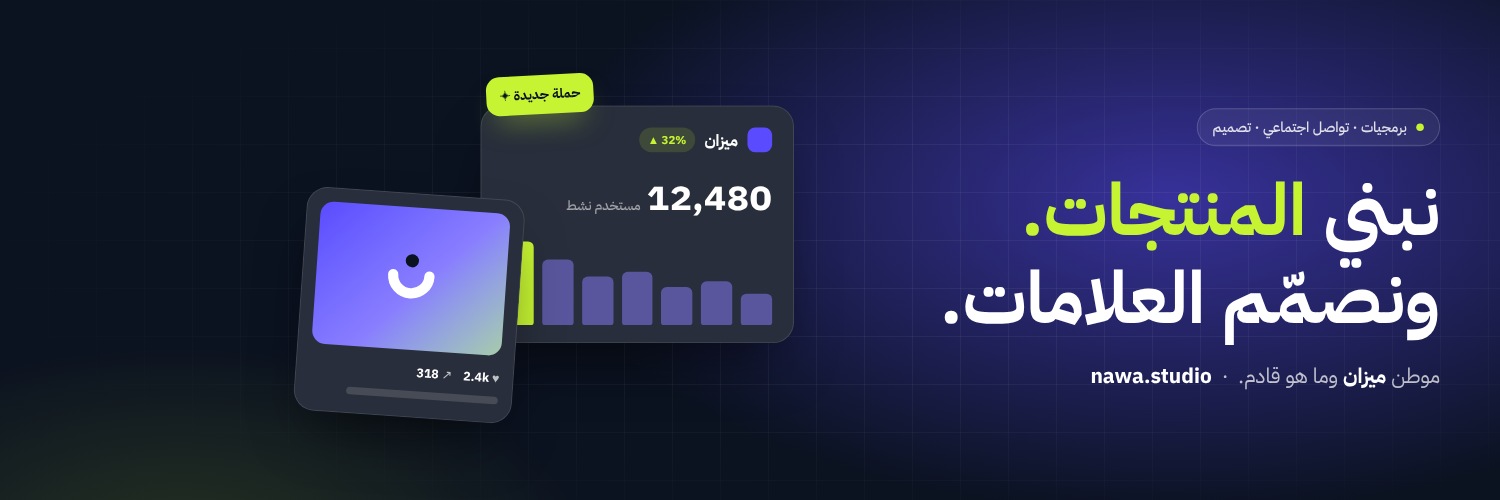
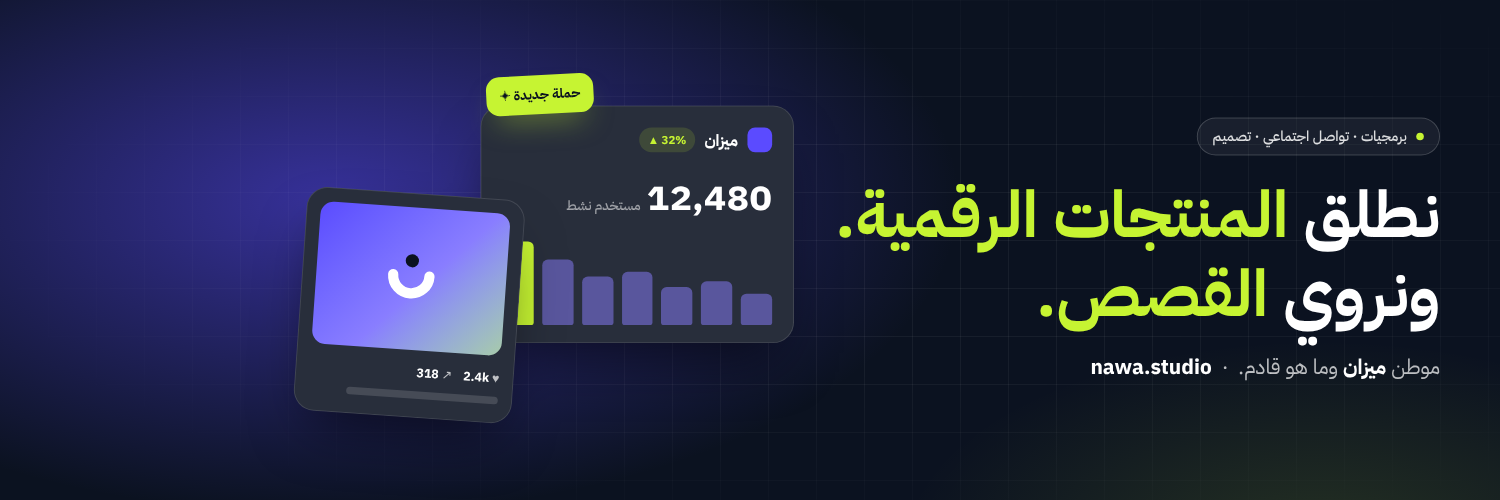
Set the final tagline: نطلق المنتجات الرقمية. ونروي القصص.
Claude-Session: https://claude.ai/code/session_013mdqmQCdncwjDBDUVvHTuE

diff --git a/design/templates/brand.js b/design/templates/brand.js
@@ -7,7 +7,7 @@
     latin: 'Nawa',
     domain: 'nawa.studio',
     handle: 'nawa.studio',
-    tagline: 'نبني *المنتجات.*|ونصمّم العلامات.',
+    tagline: 'نطلق *المنتجات الرقمية.*|ونروي *القصص.*',
     palette: { dark: '#0B1220', primary: '#5B4BFF', accent: '#C6F432', paper: '#F6F5F2' },
     font: 'Thmanyah Sans',
     logo: 'signature',

diff --git a/brand/BRAND.md b/brand/BRAND.md
@@ -22,13 +22,13 @@ Decided: the recommended Arabic brand.
 | Logo | Signature **ن** (white), with its dot in Lime as the "core" |
 | Colors | Ink `#0B1220` · Indigo `#5B4BFF` · Lime `#C6F432` · Paper `#F6F5F2` |
 | Font | **Thmanyah Sans** |
-| Tagline | «نبني المنتجات. ونصمّم العلامات.» |
+| Tagline | «نطلق المنتجات الرقمية. ونروي القصص.» |
 | Profile photo | Indigo background |
 
 These values live in `brand/brand.json`. The brand is Arabic-only, and every design is right-to-left.
 
 - **Logo:** the signature mark is the letter **ن**. Its dot is drawn in Lime and *is* the "core" (النواة).
-- **Default tagline:** «نبني المنتجات. ونصمّم العلامات.»
+- **Tagline:** «نطلق المنتجات الرقمية. ونروي القصص.»
 - **Product posts:** they carry the badge «من تطوير نواة» and end with «أحد منتجات نواة».
 - **Rules:** never add letter-spacing to Arabic text, since it breaks the joins between letters.
   Use Western digits (12,480) in UI mockups.
